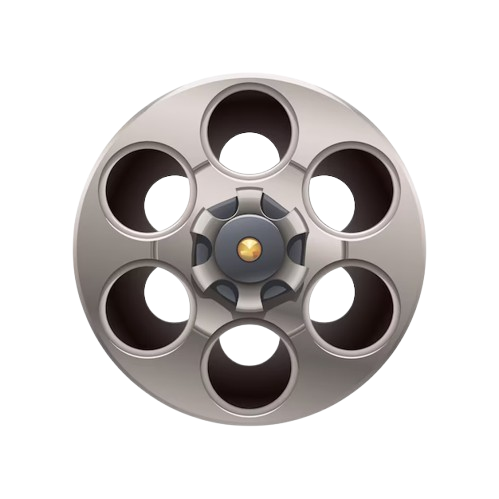
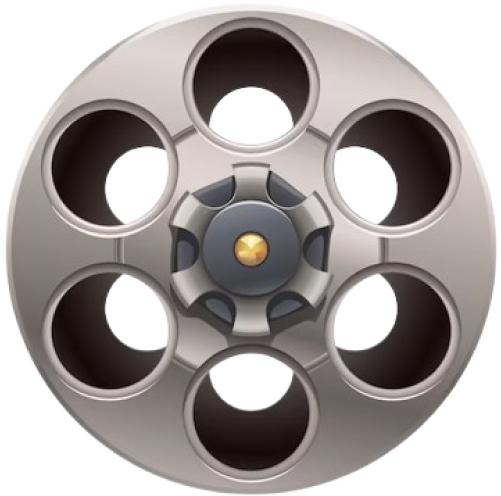
aaba chai thik cha

diff --git a/index.js b/index.js
@@ -15,8 +15,6 @@ const shuffleAudio = new Audio("assets/audio/shuffle.mp3");
 window.onload = () => {
   document.body.style.width = window.innerWidth + "px";
   document.body.style.height = window.innerHeight + "px";
-  document.getElementById("mainDiv").style.height =
-    0.9 * window.innerHeight + "px";
 };
 
 // document.getElementById("startBtn").onclick = async () => {
@@ -31,20 +29,28 @@ window.onload = () => {
 const shootButton = document.getElementById("shootButton")
 
 const questionMarkList = []
-
+const reactionEmoji = [
+  "🥱",
+  "😳",
+  "😨",
+  "😰",
+  "🫥",
+  "🫡",
+  "😵",
+]
 const positions = [
-  { top: "38%", left: "35.5%" },
-  { top: "61.5%", left: "35.5%" },
-  { top: "73.5%", left: "50%" },
-  { top: "61.5%", left: "65%" },
-  { top: "38%", left: "65%" },
-  { top: "26.5%", left: "50%" },
+  { top: "34%", left: "22%" },
+  { top: "66%", left: "22%" },
+  { top: "82.5%", left: "50%" },
+  { top: "66%", left: "78.5%" },
+  { top: "34%", left: "78.5%" },
+  { top: "17.5%", left: "50%" },
 ]
 for (let i = 0; i < 6; i++) {
   const questionMark = document.createElement("img")
   questionMark.src = "assets/gui/question.png"
   const questionStyle = `
-  width: 150px;
+  width: 9rem;
   position: absolute;
   top: ${positions[i].top};
   left: ${positions[i].left};
@@ -75,30 +81,44 @@ const changeBulletCount = () => {
   document.getElementById("bulletCount").innerHTML = `${currentBullet} / 6`;
 };
 
-const reset = () => {
-  reloadingAudio.play();
-  isShooting = false
-  currentRotation = 360 * 2;
-  shootButton.style.transform = `rotate(${currentRotation}deg)`;
-  bulletNumber = randomInRange(1, 6);
-  currentBullet = 0;
+function updateGameElements() {
   document.getElementById("mainDiv").style.backgroundColor = "white";
-  document.getElementById("reloadingText").style.display = "block";
+  document.getElementById("emojiText").innerHTML = reactionEmoji[0]
   for (const questionMark of questionMarkList) {
-    questionMark.src = "assets/gui/question.png"
-    questionMark.style.display = "block"
+    questionMark.src = "assets/gui/question.png";
+    questionMark.style.display = "block";
   }
   for (const btn of document.getElementsByClassName("nonStart")) {
     btn.style.display = "none";
   }
+  document.getElementById("reloadingText").style.display = "block";
+}
+
+const reset = () => {
+  reloadingAudio.play();
+  isShooting = false;
+  currentBullet = 0;
+  bulletNumber = randomInRange(1, 6);
+  currentRotation = 360 * 2;
+  shootButton.style.transform = `rotate(${currentRotation}deg)`;
+
+  updateGameElements();
+
+  // After sound
   setTimeout(() => {
-    for (const btn of document.getElementsByClassName("nonStart")) {
-      btn.style.display = "block";
-    }
     document.getElementById("reloadingText").style.display = "none";
-    isShooting = false;
-  }, 2000); // waiting for the audio to finish
-  changeBulletCount();
+    changeBulletCount();
+
+    // Setting to 0 without transition
+    currentRotation = 0
+    shootButton.classList.add("disable-transition");
+    shootButton.style.transform = `rotate(${currentRotation}deg)`;
+    // 
+  }, 2000);
+
+  setTimeout(() => {
+    shootButton.classList.remove("disable-transition");
+  }, 2020);
 };
 
 const increment = () => {
@@ -107,6 +127,7 @@ const increment = () => {
   }
   // reloadingAudio.play();
   dhukdhukAudio.play();
+  document.getElementById("emojiText").innerHTML = "🫣"
   currentRotation += 60;
   shootButton.style.transform = `rotate(${currentRotation}deg)`;
   isShooting = true
@@ -117,16 +138,17 @@ const increment = () => {
 };
 const _increment = () => {
   currentBullet++;
-
   if (bulletNumber === currentBullet) {
     // play sound
     document.getElementById("mainDiv").style.backgroundColor = "red";
     questionMarkList[currentBullet - 1].src = "assets/gui/bullet.png"
+    document.getElementById("emojiText").innerHTML = "😵"
     shotAudio.play();
   } else {
     document.getElementById("mainDiv").style.backgroundColor = "green";
     setTimeout(() => {
       document.getElementById("mainDiv").style.backgroundColor = "white";
+      document.getElementById("emojiText").innerHTML = reactionEmoji[currentBullet]
       isShooting = false
       questionMarkList[currentBullet - 1].style.display = "none"
     }, 500);

diff --git a/index.html b/index.html
@@ -3,16 +3,29 @@
   <head>
     <title>Liars Bar Randomizer</title>
     <style>
+      * {
+        margin: 0;
+        padding: 0;
+        box-sizing: border-box;
+      }
+      html {
+        height: 100%;
+        width: 100%;
+      }
       body {
+        width: 100%;
+        height: 100%;
         font-family: Verdana, Geneva, Tahoma, sans-serif;
       }
 
       #mainDiv {
-        height: "100%";
+        width: 100%;
+        height: 100%;
         display: flex;
         flex-direction: column;
-        gap: 30px;
-        padding: 5rem;
+        align-items: center;
+        /* gap: 30px; */
+        padding: 2rem;
       }
       button {
         font-size: xx-large;
@@ -29,14 +42,15 @@
         transition: all 500;
       }
       .diceButton {
-        width: 20rem;
-        height: 20rem;
+        width: 15rem;
+        height: 15rem;
       }
 
       .topContainer {
         display: flex;
         gap: 10px;
         margin-bottom: 100px;
+        width: 100%;
       }
       .playingCard {
         width: 50%;
@@ -46,6 +60,7 @@
 
       .cardContainer {
         display: flex;
+        gap: 1rem;
       }
 
       .nonStart {
@@ -68,18 +83,27 @@
       }
       #shootButton {
         position: relative;
-        border-radius: 50%;
+        border-radius: 100%;
         background: none;
         outline: none;
         border: none;
-        transition: all 2500ms;
+        transition: all 2000ms;
+        width: 35rem;
       }
       #chamber {
-        height: 50rem;
-        transition: all 2500ms;
+        width: 35rem;
+        transition: all 2000ms;
       }
       .resetImg {
-        width: 10rem;
+        width: 15rem;
+      }
+
+      .disable-transition {
+        transition: none !important;
+      }
+      #emoji {
+        font-size: 10rem;
+        margin-top: 5rem;
       }
     </style>
     <link rel="manifest" href="manifest.json" />
@@ -87,12 +111,12 @@
 
   <body>
     <div id="mainDiv">
-      <div class="topContainer" style="">
+      <div class="topContainer">
         <div class="cardContainer">
           <button id="randomCard">
             <img class="diceButton" src="assets/gui/roll_button.png" alt="button" />
           </button>
-          <div id="random" style="font-size: 35px">
+          <div id="random">
             <img id="cardImage" src="assets/cards/roll.png" alt="card" />
           </div>
         </div>
@@ -106,6 +130,9 @@
       <button id="shootButton" onclick="increment()">
         <img id="chamber" src="assets/gui/chamber.png" alt="button" />
       </button>
+      <div id="emoji">
+        <span id="emojiText">👆</span>
+      </div>
     </div>
     <script src="index.js"></script>
   </body>
